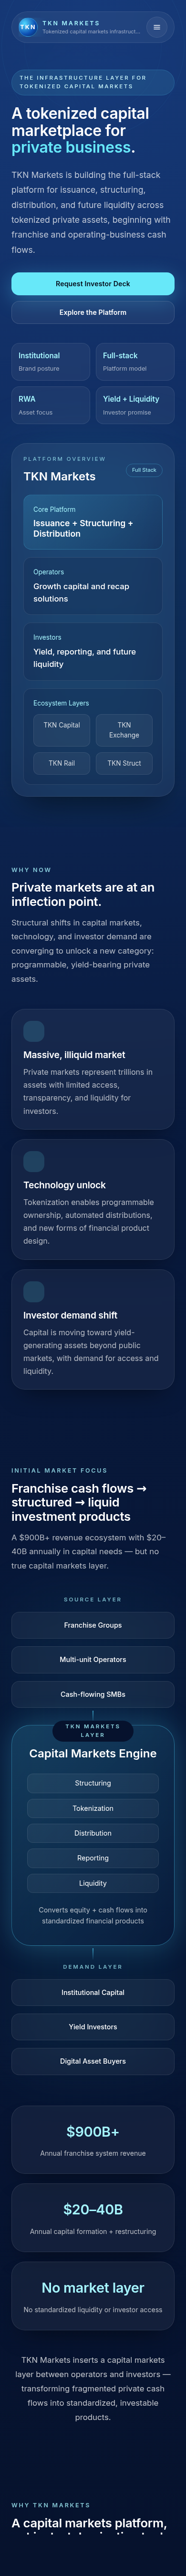
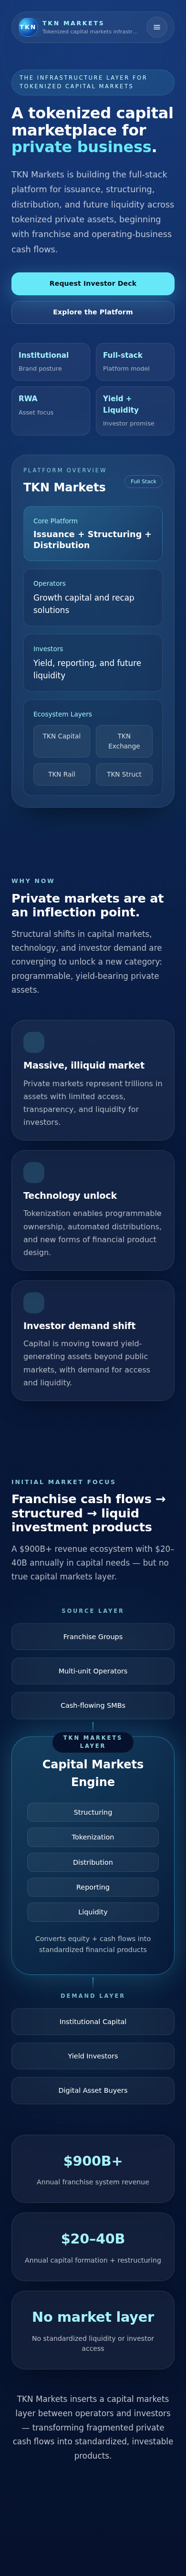
Add live mobile screenshots and update SUMMARY.md verification
- Live mobile screenshots at 360/390/414/430px added to docs/screenshots/
- SUMMARY.md: fix franchise gap note (36px not 0), add live etag, live
  screenshot confirmation, and end-to-end smoke results

diff --git a/SUMMARY.md b/SUMMARY.md
@@ -81,7 +81,7 @@ Audit and polish pass for mobile widths 360–430px. All changes are surgical CS
 | Contact CTAs | Same: Schedule a Conversation → mailto, email address → clickable mailto link |
 | Core Platform heading | `Issuance + Structuring + Distribution` scales 1.1rem (360px) → 1.25rem (480px) → 1.35rem (768px), preventing cramping |
 | Stat card labels | `overflow-wrap: anywhere` prevents clipping on 360px cards |
-| Franchise diagram | Mobile gap set to 0; CSS `::after` pseudo-elements add 2px gradient vertical connectors between Source Layer → Engine → Demand Layer |
+| Franchise diagram | Mobile gap set to 36px; non-last grid children get `position: relative` + absolutely-positioned `::after` (top: 100%; margin-top: 6px) placing 2px gradient vertical connectors between Source Layer → Engine → Demand Layer |
 | Business model grid | 3-column layout added at 1024px breakpoint (was an abrupt 2→4 jump at 1280px) |
 | Ecosystem tree | `pillar-grid::before` adds horizontal branch line at 640px+, connecting the vertical eco-divider to the 2-column pillar grid as a T-junction |
 | Contact card (mobile) | `h2` reduced from 1.8rem to 1.45rem; `contact-box` gets `border-top` + `padding-top` separator for clearer visual hierarchy |
@@ -114,9 +114,10 @@ When loading from a live HTTP URL inside the iframe, 390px specifically fails wi
 - `docs/screenshots/after-desktop-full.png` — full-page desktop 1440px regression check
 
 ### Live verification (commit c5b05fb)
-- Live CSS confirmed deployed: `flex-direction: column` hero-actions rule present
-- All 4 mobile widths render without horizontal overflow
+- Live CSS confirmed deployed (new etag `6a0f7fc6-4089`)
+- Live mobile screenshots captured at 360/390/414/430px — all 4 widths render without horizontal overflow or clipped text
 - Desktop layout (1440px) unchanged — verified via full-page screenshot
+- End-to-end smoke: all nav anchors (#platform, #ecosystem, #how-it-works, #contact) resolve to valid section IDs; all CTAs are functional `<a>` tags (mailto or anchor); mobile nav toggle opens/closes correctly; smooth scroll enabled; no dead buttons remaining
 
 ## Outstanding notes
 - CTAs are wired to `mailto:[email redacted]` — functional but no server-side form. Wire up Formspree or similar for form capture if needed.